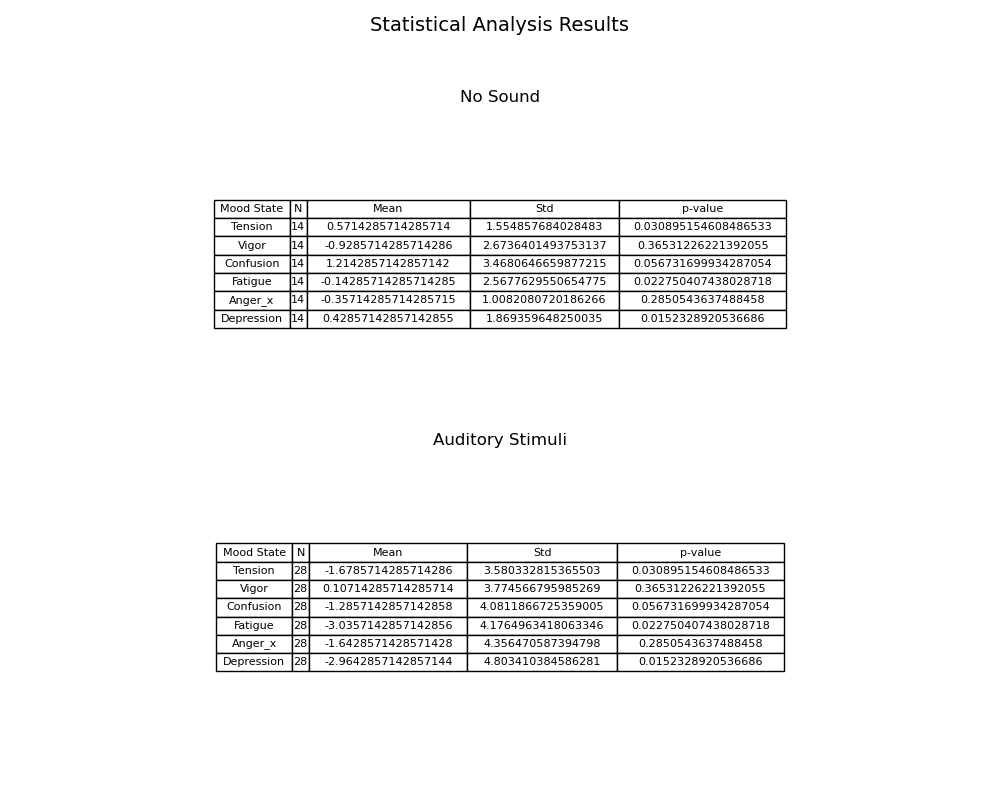
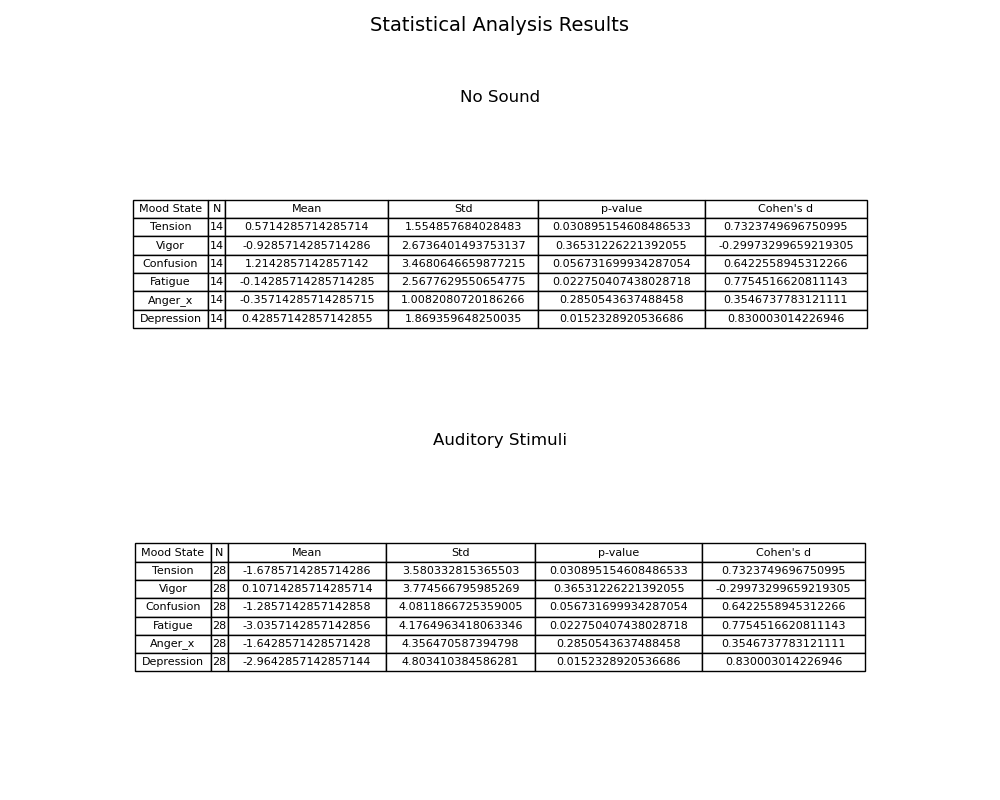
effect size for t-tests

Changed region(s): [[0.124, 0.6562, 0.868, 0.8438], [0.124, 0.25, 0.868, 0.4375]]

diff --git a/POMS/statistical_analyis.py b/POMS/statistical_analyis.py
@@ -1,8 +1,9 @@
 import pandas as pd
 from scipy.stats import ttest_rel
 import os
+import numpy as np
 
-
+# Define file paths
 folder_path = 'POMS'
 input_file = 'participant_scores.csv'
 file_path = os.path.join(folder_path, input_file)
@@ -12,9 +13,11 @@ data = pd.read_csv(file_path)
 for mood in ['Tension', 'Vigor', 'Confusion', 'Fatigue', 'Anger_x', 'Depression']:
     data[f'Difference_{mood}'] = data[f'After {mood}'] - data[f'Before {mood}']
 
-# statistical paired t-test to find out p value to test statistical value: p value < 0.05 means stat. difference
-# is significant enough not to be random, only in tired condition 1 almost reached
-    
+# Function to calculate Cohen's d for paired samples
+def cohen_d_paired(x):
+    return np.mean(x) / np.std(x, ddof=1)
+
+# Statistical paired t-test to find out p value to test statistical value: p value < 0.05 means stat. difference is significant enough not to be random
 mood_states = ['Tension', 'Vigor', 'Confusion', 'Fatigue', 'Anger_x', 'Depression']
 for mood in mood_states:
     print(f"Statistical Analysis for {mood}:")
@@ -22,7 +25,11 @@ for mood in mood_states:
         condition_data = data[data['Condition'] == condition]
         condition_diff = condition_data[f'Difference_{mood}']
         
-        # paired t-test
+        # Paired t-test
         t_stat, p_val = ttest_rel(condition_diff, [0] * len(condition_diff))
-        print(f"Condition {condition}: p-value = {p_val:.4f}")
+        
+        # Calculate Cohen's d
+        cohen_d = cohen_d_paired(condition_diff)
+        
+        print(f"Condition {condition}: p-value = {p_val:.4f}, Cohen's d = {cohen_d:.4f}")
     print()

diff --git a/POMS/DEQ_statistical_analysis.py b/POMS/DEQ_statistical_analysis.py
@@ -2,27 +2,35 @@ import pandas as pd
 from scipy.stats import ttest_rel
 import os
 
-
+# Define file paths
 folder_path = 'POMS'
 input_file = 'participant_scores_deq.csv'
 file_path = os.path.join(folder_path, input_file)
+
+# Load the data
 data = pd.read_csv(file_path)
 
 # Calculate the difference between before and after mood states for each participant
 for mood in ['Anger', 'Disgust', 'Fear', 'Anxiety', 'Sadness', 'Desire', 'Relaxation', 'Happiness']:
     data[f'Difference_{mood}'] = data[f'After {mood}'] - data[f'Before {mood}']
 
-# statistical paired t-test to find out p value to test statistical value: p value < 0.05 means stat. difference
-# is significant enough not to be random, only in tired condition 1 almost reached
-    
+# Define the mood states
 mood_states = ['Anger', 'Disgust', 'Fear', 'Anxiety', 'Sadness', 'Desire', 'Relaxation', 'Happiness']
+
+# Perform statistical analysis and calculate Cohen's d
 for mood in mood_states:
     print(f"Statistical Analysis for {mood}:")
     for condition in data['Condition'].unique():
         condition_data = data[data['Condition'] == condition]
         condition_diff = condition_data[f'Difference_{mood}']
         
-        # paired t-test
+        # Paired t-test
         t_stat, p_val = ttest_rel(condition_diff, [0] * len(condition_diff))
-        print(f"Condition {condition}: p-value = {p_val:.4f}")
+        
+        # Calculate Cohen's d
+        mean_diff = condition_diff.mean()
+        std_diff = condition_diff.std()
+        cohen_d = mean_diff / std_diff
+        
+        print(f"Condition {condition}: p-value = {p_val:.4f}, Cohen's d = {cohen_d:.4f}")
     print()

diff --git a/POMS/POMS_pairedT-test.py b/POMS/POMS_pairedT-test.py
@@ -3,6 +3,11 @@ from scipy.stats import ttest_rel
 import os
 import matplotlib.pyplot as plt
 import seaborn as sns
+import numpy as np
+
+# Function to calculate Cohen's d for paired samples
+def cohen_d_paired(x):
+    return np.mean(x) / np.std(x, ddof=1)
 
 # Define file paths
 folder_path = 'POMS'
@@ -51,6 +56,9 @@ def analyze_and_plot(group_data, group_name):
             mean_diff = condition_diff.mean()
             std_diff = condition_diff.std()
 
+            # Calculate Cohen's d
+            cohen_d = cohen_d_paired(condition_diff)
+
             # Store results for plotting
             results.append({
                 'Mood': mood,
@@ -58,10 +66,11 @@ def analyze_and_plot(group_data, group_name):
                 'Mean Difference': mean_diff,
                 'Standard Deviation': std_diff,
                 'p-value': p_val,
+                'Cohen\'s d': cohen_d,
                 'Group': group_name
             })
 
-            print(f"Condition {condition}: Mean Difference = {mean_diff:.2f}, Standard Deviation = {std_diff:.2f}, p-value = {p_val:.4f}, Participants = {condition_diff.shape[0]}")
+            print(f"Condition {condition}: Mean Difference = {mean_diff:.2f}, Standard Deviation = {std_diff:.2f}, p-value = {p_val:.4f}, Cohen's d = {cohen_d:.4f}, Participants = {condition_diff.shape[0]}")
         print()
 
     # Convert results to DataFrame for plotting
